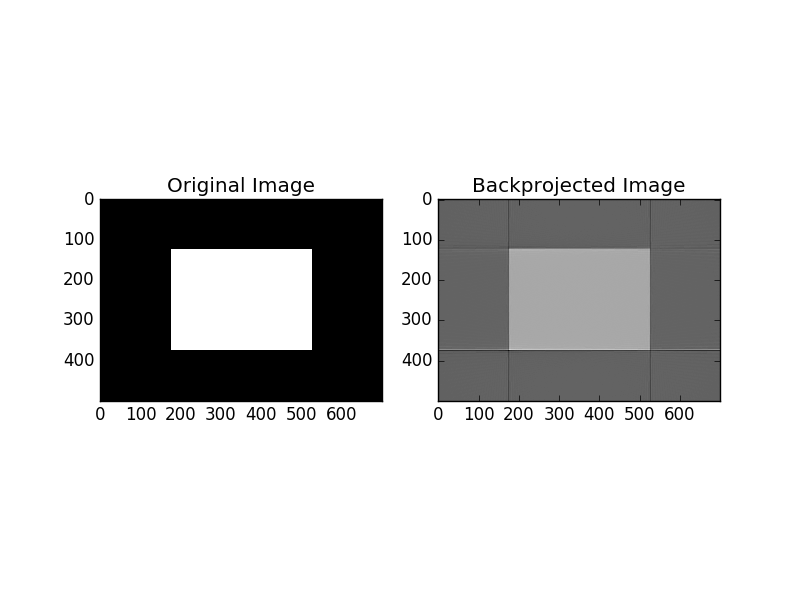
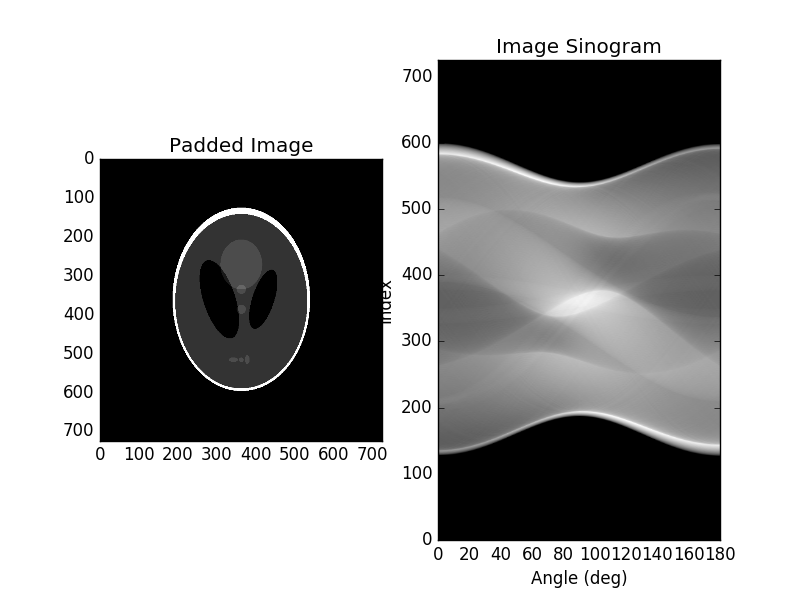
added backprojection playback and error image

diff --git a/filtbackproj.py b/filtbackproj.py
@@ -1,6 +1,7 @@
 import numpy as np
 import matplotlib.pyplot as plt
-from PIL import Image
+from matplotlib import animation
+from PIL import Image, ImageChops
 from scipy.fftpack import fft, fftshift, ifft
 
 def dummyImg(size0, size1):
@@ -11,7 +12,7 @@ def dummyImg(size0, size1):
     a = round(size0/4)
     b = round(size1/4)
     M[a:size0-a,b:size1-b] = 255 #insert centered rectangle with dimensions 1/2 the size of the image
-    dumImg = Image.fromarray(M)  #create image object
+    dumImg = Image.fromarray(M.astype('uint8'))  #create image object
     return dumImg
 
 def padImage(img):
@@ -91,9 +92,14 @@ def backproject(sinogram, theta):
     x = np.arange(imageLen)-imageLen/2 #create coordinate system centered at (x,y = 0,0)
     y = x.copy()
     X, Y = np.meshgrid(x, y)
-    
+
+    plt.ion()
+    fig, ax = plt.subplots()
+    im = plt.imshow(reconMatrix, cmap='gray')
+
     theta = theta*np.pi/180
     numAngles = len(theta)
+
     for n in range(numAngles):
         Xrot = X*np.sin(theta[n])-Y*np.cos(theta[n]) #determine rotated x-coordinate about origin in mesh grid form
         XrotCor = np.round(Xrot+imageLen/2) #shift back to original image coordinates, round values to make indices
@@ -103,35 +109,45 @@ def backproject(sinogram, theta):
         s = sinogram[:,n] #get projection
         projMatrix[m0, m1] = s[XrotCor[m0, m1]]  #backproject in-bounds data
         reconMatrix += projMatrix
-
+        im.set_data(Image.fromarray((reconMatrix-np.min(reconMatrix))/np.ptp(reconMatrix)*255))
+        ax.set_title('Theta = %.2f degrees' % (theta[n]*180/np.pi))
+        fig.canvas.draw()
+         
+    plt.close()
+    plt.ioff()
     backprojArray = np.flipud(reconMatrix)
     return backprojArray
-        
+
 #def main():
 if __name__ == '__main__':
 
 
-    myImg = dummyImg(500,700)
-    #myImg = Image.open('SheppLoganHead.png')
+    #myImg = dummyImg(500,700)
+    myImg = Image.open('SheppLogan.png').convert('L')
     
-    myImgPad, c0, c1 = padImage(myImg) 
+    
+    myImgPad, c0, c1 = padImage(myImg)  #PIL image object
     dTheta = 1
     theta = np.arange(0,181,dTheta)
     print('Getting projections\n')
-    mySino = getProj(myImgPad, theta)
+    mySino = getProj(myImgPad, theta)  #numpy array
     print('Filtering\n')
-    filtSino = projFilter(mySino)
-    print('Performing backprojection')
-    recon = backproject(filtSino, theta)
+    filtSino = projFilter(mySino)  #numpy array
+    print('Performing backprojection')  
 
-    n0, n1 = myImg.size                 #Crop out padding. Note PIL image objects have coordinates swapped relative to numpy arrays
-    recon2 = recon[c1:c1+n1,c0:c0+n0]   #So 10x20 numpy array converted to an image object will have a size of 20x10
-                                        #However, when plotting image objects with imshow, the coordinates are treated appropriately.        
-    fig1, (ax1, ax2) = plt.subplots(1,2)
-    ax1.imshow(myImg)
+    recon = backproject(filtSino, theta)
+    recon2 = np.round((recon-np.min(recon))/np.ptp(recon)*255) #convert values to integers 0-255
+    reconImg = Image.fromarray(recon2.astype('uint8'))
+    n0, n1 = myImg.size
+    reconImg = reconImg.crop((c0, c1, c0+n0, c1+n1))
+
+    fig1, (ax1, ax2, ax3) = plt.subplots(1,3, figsize=(12,4))
+    ax1.imshow(myImg, cmap='gray')
     ax1.set_title('Original Image')
-    ax2.imshow(recon2, cmap='gray')
+    ax2.imshow(reconImg, cmap='gray')
     ax2.set_title('Backprojected Image')
+    ax3.imshow(ImageChops.difference(myImg, reconImg), cmap='gray') #note this currently doesn't work for imported images
+    ax3.set_title('Error')
 
     fig2, (ax1, ax2) = plt.subplots(1,2)
     ax1.imshow(myImgPad, cmap='gray')
